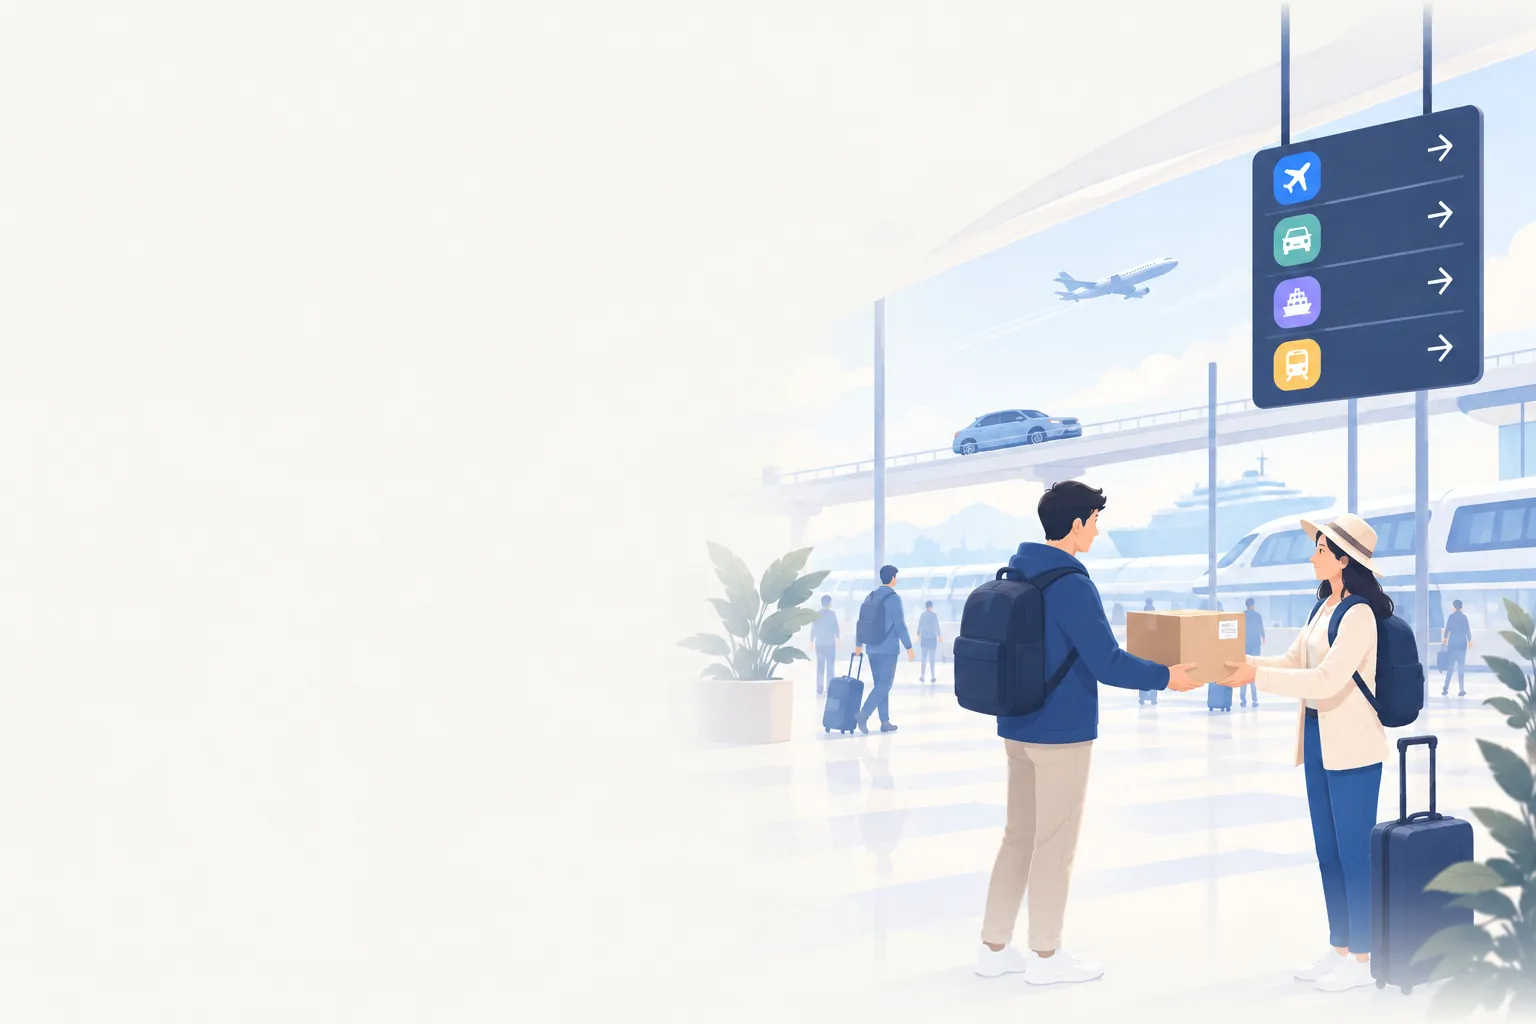
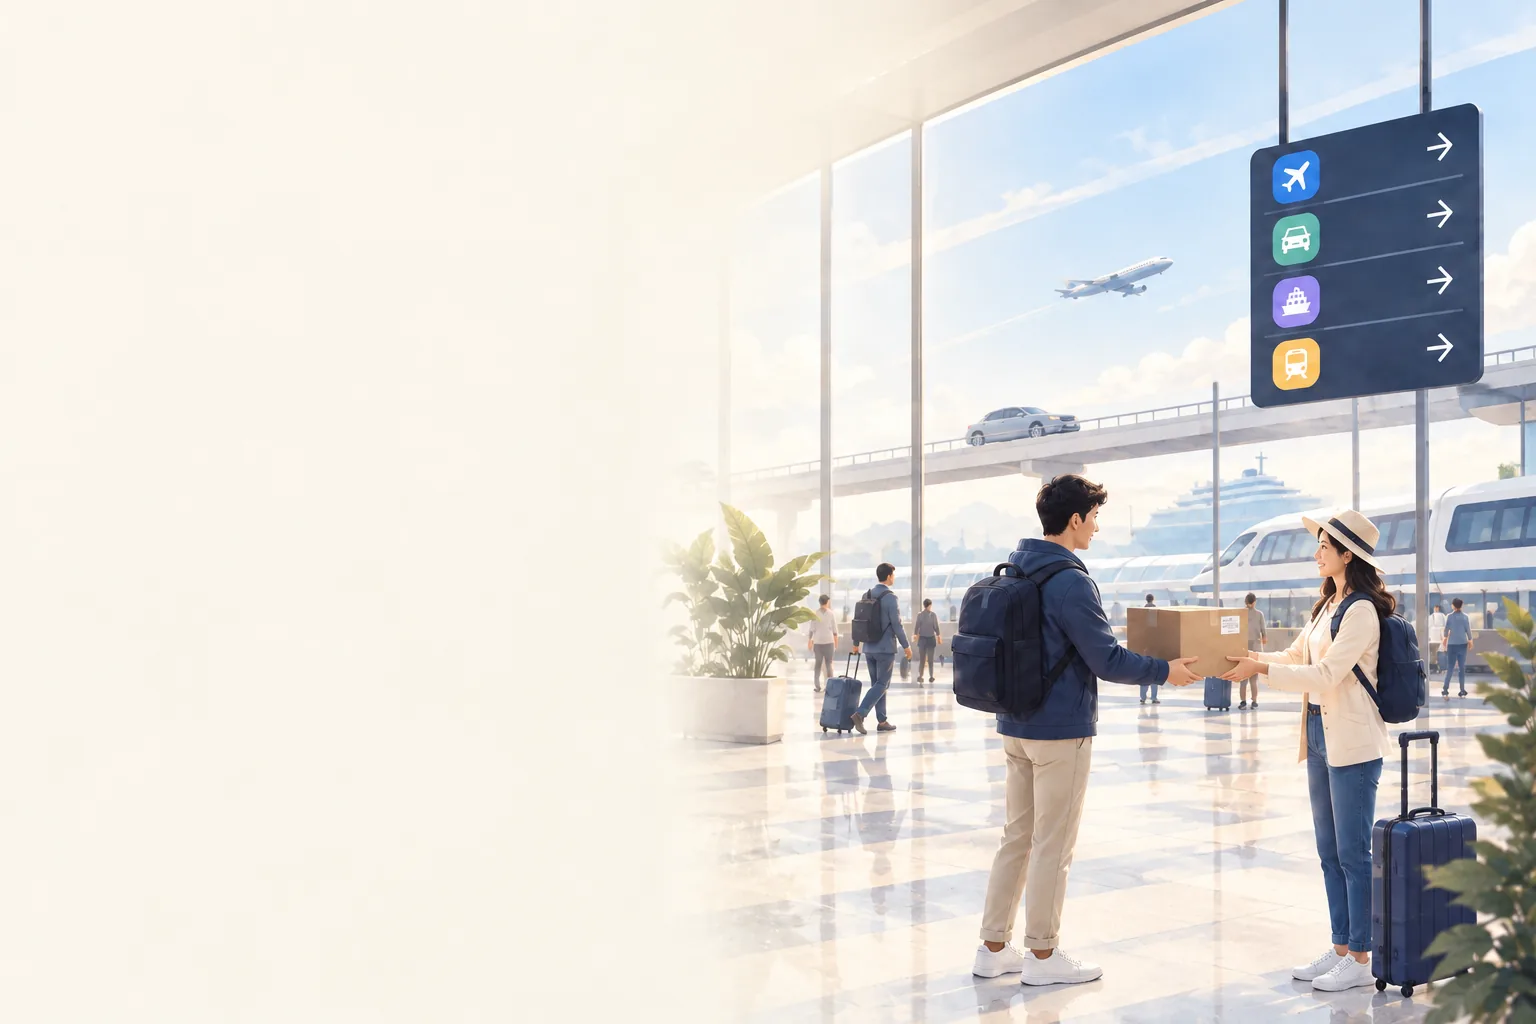
Nouvelle image hero + blocs voyageur (accueil et dashboard)

Changed region(s): [[0.4375, 0.0, 1.0, 1.0], [0.6875, 0.25, 0.7812, 0.3125]]

diff --git a/src/components/hero-choice.tsx b/src/components/hero-choice.tsx
@@ -12,13 +12,13 @@ type Role = "sender" | "traveler";
 
 const TABS = [
   { role: "sender", label: "J'envoie un colis", hint: "Trouver un voyageur", Icon: PackageIcon },
-  { role: "traveler", label: "Je voyage", hint: "Gagner de l'argent", Icon: SuitcaseIcon },
+  { role: "traveler", label: "Je voyage", hint: "J'emporte un colis", Icon: SuitcaseIcon },
 ] as const;
 
 const TRAVELER_POINTS = [
-  "Vous choisissez vos dates et ce que vous souhaitez recevoir.",
-  "Vous acceptez ou refusez chaque demande.",
-  "Vous êtes payé une fois le colis livré.",
+  "Vous choisissez votre trajet",
+  "Vous acceptez uniquement les demandes qui vous conviennent",
+  "Vous êtes payé après la remise du colis",
 ];
 
 // Le choix de l'accueil : deux grandes entrées toujours visibles, chacune dans sa couleur.
@@ -99,7 +99,10 @@ export function HeroChoice() {
           </Card>
         ) : (
           <Card className="!bg-primary-light !border-primary/20">
-            <p className="font-semibold text-ink mb-4">Gagnez de l&apos;argent en transportant un colis sur votre route</p>
+            <p className="font-semibold text-ink">Votre trajet peut vous rapporter.</p>
+            <p className="text-sm text-ink-muted mt-1 mb-4">
+              Profitez d&apos;un déplacement que vous faites déjà pour transporter un colis.
+            </p>
             <ul className="space-y-3 text-sm text-ink">
               {TRAVELER_POINTS.map((text) => (
                 <li key={text} className="flex items-start gap-2.5">

diff --git a/src/app/(app)/dashboard/page.tsx b/src/app/(app)/dashboard/page.tsx
@@ -99,8 +99,8 @@ export default function DashboardPage() {
           <span className="w-11 h-11 rounded-xl bg-white/20 text-white flex items-center justify-center mb-3">
             <SuitcaseIcon size={20} />
           </span>
-          <p className="font-bold leading-tight">Proposer un trajet</p>
-          <p className="text-xs text-white/85 mt-1 leading-snug">Gagnez de l&apos;argent en transportant un colis.</p>
+          <p className="font-bold leading-tight">Je voyage</p>
+          <p className="text-xs text-white/85 mt-1 leading-snug">Votre trajet peut vous rapporter.</p>
         </Link>
       </div>
 
